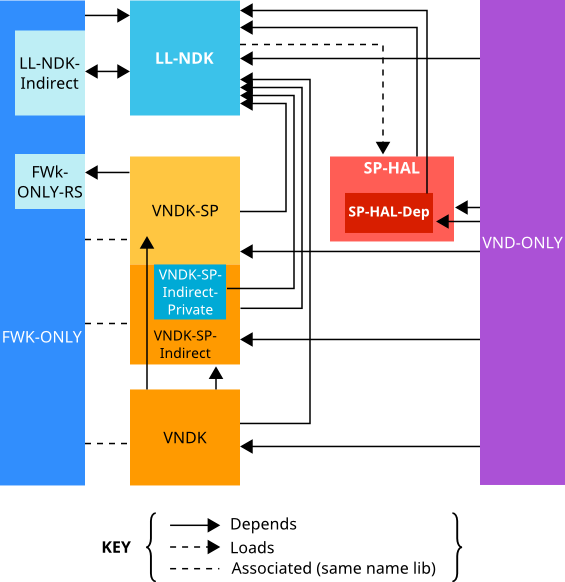
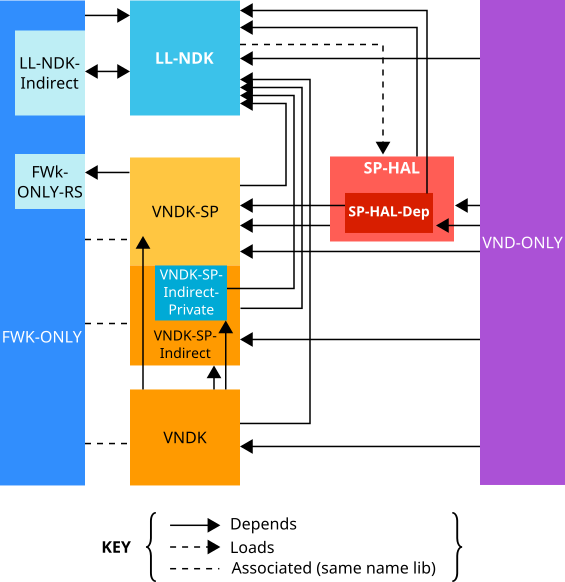
Docs: Changes to source.android.com
- 189676745 Add missing arrows in treble_vndk_design.png. by Android Partner Docs <noreply@android.com>
  - 189627338 Change Google Inc. to Google LLC by Danielle Roberts <daroberts@google.com>
  - 189618579 Add "updated" to date at top of file by Danielle Roberts <daroberts@google.com>
  - 189605698 Devsite localized content from translation request 288cfb... by Android Partner Docs <noreply@android.com>
  - 189605686 Devsite localized content from translation request 9e3d8a... by Android Partner Docs <noreply@android.com>
  - 189604258 Point the "Year in Review" link to the latest available r... by Android Partner Docs <noreply@android.com>

PiperOrigin-RevId: 189676745

diff --git a/zh-cn/compatibility/cts/setup.html b/zh-cn/compatibility/cts/setup.html
@@ -115,7 +115,7 @@ ro.product.first_api_level=21
 
 <h3 id="storage_requirements">存储空间要求</h3>
 <p>CTS 媒体压力测试要求将视频剪辑存放在外部存储设备 (<code>/sdcard</code>) 上。大部分剪辑来自 <a href="https://peach.blender.org/">Big Buck Bunny</a>，其版权归 Blender Foundation 所有并采用 <a href="http://creativecommons.org/licenses/by/3.0/">Creative Commons Attribution 3.0 许可</a>。</p>
-<p>所需空间取决于设备支持的最高视频播放分辨率（要查看所需分辨率的平台版本，请参阅兼容性定义文档中的第 5 部分）。请注意，被测设备的视频播放功能将通过 <code>android.media.CamcorderProfile</code> API（针对早期 Android 版本）和 <code>android.media.MediaCodecInfo.CodecCapabilities</code> API（针对 Android 5.0 及更高版本）进行检测。</p>
+<p>所需空间取决于设备支持的最高视频播放分辨率（要查看所需分辨率的平台版本，请参阅兼容性定义文档中的第 5 部分）。请注意，被测设备的视频播放功能将通过 <code>android.media.CamcorderProfile</code> API（针对早期 Android 版本）和 <code>android.media.MediaCodecInfo.CodecCapabilities</code> API（针对 Android 5.0）进行检测。</p>
 <p>以下是按最大视频播放分辨率列出的存储空间要求：</p>
 <ul>
   <li>480x360：98 MB</li><li>720x480：193 MB</li><li>1280x720：606 MB</li><li>1920x1080：1863 MB</li></ul>
@@ -140,7 +140,7 @@ ro.product.first_api_level=21
     <p class="warning"><strong>警告：</strong>这将清空设备中的所有用户数据。</p>
   </li><li>将设备的语言设置为英语（<strong>美国</strong>）：<strong>设置 &gt; 语言和输入法 &gt; 语言</strong>
   </li><li>如果设备具有 GPS 或 WLAN/移动网络功能，则打开位置信息设置：<strong>设置 &gt; 位置信息 &gt; 开启</strong>
-  </li><li><em></em>连接到满足以下要求的 WLAN 网络：支持 IPv6，可以将被测设备 (DUT) 视为隔离的客户端（请参阅上文的<a href="#physical_environment">物理环境</a>部分），并可以连接到互联网：<strong>设置 &gt; WLAN</strong>
+  </li><li>连接到满足以下要求的 WLAN 网络：支持 IPv6，可以将被测设备 (DUT) 视为隔离的客户端（请参阅上文的<a href="#physical_environment">物理环境</a>部分），并可以连接到互联网：<strong>设置 &gt; WLAN</strong><em></em>
   </li><li>确保设备上未设置锁定图案或密码：<strong>设置 &gt; 安全 &gt; 屏幕锁定 &gt; 无</strong>
   </li><li>在设备上启用 <strong>USB 调试</strong>：<strong>设置 &gt; 开发者选项 &gt; USB 调试</strong>。
        <p class="note"><strong>注意：</strong>在 Android 4.2 及更高版本中，默认情况下会隐藏<strong>开发者选项</strong>。要显示这些选项，请依次转到<strong>设置 &gt; 关于手机</strong>，然后点按<strong>版本号</strong>七次。返回上一屏幕以查找<strong>开发者选项</strong>。要查看其他详细信息，请参阅<a href="http://developer.android.com/studio/run/device.html#developer-device-options">启用设备上的开发者选项</a>。</p>

diff --git a/zh-cn/compatibility/cts/development.html b/zh-cn/compatibility/cts/development.html
@@ -27,7 +27,8 @@ init</code> 命令时，请按照<a href="/setup/downloading.html">相关说明<
 <h2 id="building-and-running-cts">构建和运行 CTS</h2>
 
 <p>执行以下命令以构建 CTS 并启动交互式 CTS 控制台：</p>
-<p class="note"><strong>注意</strong>：您可以为 <code>TARGET_PRODUCT</code> 提供以下其他值之一，以针对不同的架构进行编译：<code>aosp_x86_64</code> 或 <code>aosp_mips</code></p>
+<p class="note"><strong>注意</strong>：您可以为 <code>TARGET_PRODUCT</code> 提供以下其他值之一，以针对不同的架构进行编译：
+<code>aosp_x86_64</code> 或 <code>aosp_mips</code></p>
 <pre class="devsite-click-to-copy">
 <code class="devsite-terminal">cd <em>/path/to/android/root</em></code>
 <code class="devsite-terminal">make cts -j32 TARGET_PRODUCT=aosp_arm64</code>
@@ -189,6 +190,11 @@ include $(call all-makefiles-under,$(LOCAL_PATH))
 </thead>
 <tbody>
 <tr>
+  <td>8.1</td>
+    <td>oreo-mr1-cts-dev</td>
+      <td>每月</td>
+      </tr>
+<tr>
   <td>8.0</td>
     <td>oreo-cts-dev</td>
       <td>每月</td>
@@ -214,24 +220,7 @@ include $(call all-makefiles-under,$(LOCAL_PATH))
   <td>每月</td>
 </tr>
 <tr>
-  <td>5.0</td>
-  <td>lollipop-cts-dev</td>
-  <td>无版本发布计划</td>
-</tr>
-<tr>
-  <td>4.4</td>
-  <td>kitkat-cts-dev</td>
-  <td>无版本发布计划</td>
-</tr>
-<tr>
-  <td>4.3</td>
-  <td>jb-mr2-cts-dev</td>
-  <td>无版本发布计划</td>
-</tr>
-<tr>
-  <td>4.2</td>
-  <td>jb-mr1.1-cts-dev</td>
-  <td>无版本发布计划</td>
+  <td colspan="3">对于 5.0、4.4、4.3 和 4.2，无发布计划。</td>
 </tr>
 </tbody></table>
 
@@ -246,10 +235,11 @@ include $(call all-makefiles-under,$(LOCAL_PATH))
 <h3 id="auto-merge">自动合并流程</h3>
 
 <p>CTS 开发分支已设置，因此提交到每个分支的更改将自动合并，如下所示：<br />
-jb-dev-&gt; jb-mr1.1-cts-dev -&gt; jb-mr2-cts-dev  -&gt; kitkat-cts-dev -&gt;
-lollipop-cts-dev -&gt; lollipop-mr1-cts-dev -&gt; marshmallow-cts-dev -&gt;
-nougat-cts-dev -&gt; nougat-mr1-cts-dev -&gt; oreo-cts-dev -&gt; &lt;private-development-branch for Android O MR1&gt;</p>
+lollipop-mr1-cts-dev -&gt; marshmallow-cts-dev -&gt;
+nougat-cts-dev -&gt; nougat-mr1-cts-dev -&gt; oreo-cts-dev -&gt; oreo-mr1-cts-dev -&gt; &lt;private-development-branch for Android P&gt;</p>
 
 <p>如果变更列表 (CL) 未能正确合并，CL 的作者将收到一封电子邮件，其中包含有关如何解决冲突的说明。在大多数情况下，CL 作者可以通过这些说明来跳过存在冲突的 CL 的自动合并流程。</p>
+
+<p>此外，如果较旧的分支需要更改，则需要从较新的分支挑选 CL。</p>
 
 </body></html>

diff --git a/zh-cn/setup/brands.html b/zh-cn/setup/brands.html
@@ -20,7 +20,7 @@
       limitations under the License.
   -->
 
-<p>“Android”名称、<img src="/setup/assets/images/sac_logo.png" alt="Android" style="margin:0;padding:0 2px;vertical-align:baseline"/> 徽标、“Google Play”品牌以及其他商标均为 Google Inc. 的资产，不属于通过 Android 开源项目提供的资源的一部分。</p>
+<p>“Android”名称、<img src="/setup/assets/images/sac_logo.png" alt="Android" style="margin:0;padding:0 2px;vertical-align:baseline"/> 徽标、“Google Play”品牌以及其他商标均为 Google LLC 的资产，不属于通过 Android 开源项目提供的资源的一部分。</p>
 
 <p>如果您希望使用这些品牌，以表明它们与您的设备之间存在关联，请遵循本页中的准则。这些准则与 <a href="https://developer.android.com/distribute/tools/promote/brand.html">Android 应用开发者品牌指南</a>和 <a href="https://www.google.com/permissions/">Google 品牌权限</a>是相辅相成的关系。</p>
 
@@ -48,7 +48,7 @@
     <li><span style="color:green">正确</span>：“Android 移动设备”</li>
   </ul>
   <p><strong>无论在任何情况下使用 Android 名称，都必须在您的资料中包含以下归属信息</strong>：</p>
-  <blockquote><em>Android 是 Google Inc. 的商标。</em></blockquote><p></p>
+  <blockquote><em>Android 是 Google LLC 的商标。</em></blockquote><p></p>
   </li>
 </ul>
 

diff --git a/zh-cn/legal.html b/zh-cn/legal.html
@@ -24,13 +24,13 @@
 
   <div class="landing-banner">
 
-    <p>Android 由 Google Inc. 和<a href="http://www.openhandsetalliance.com/">开放手机联盟</a> (Open Handset Alliance) 联合开发。为了履行打造开放、自由和创新的移动环境的承诺，我们将其作为开发平台提供给您。</p>
+    <p>Android 由 Google LLC 和<a href="http://www.openhandsetalliance.com/">开放手机联盟</a> (Open Handset Alliance) 联合开发。为了履行打造开放、自由和创新的移动环境的承诺，我们将其作为开发平台提供给您。</p>
 
   </div>
 
 <h2 id="Brands">Android 品牌</h2>
 
-<p>“Android”名称、<img src="/setup/assets/images/sac_logo.png" alt="Android" style="margin:0;padding:0 2px;vertical-align:baseline"/> 徽标和<a href="http://www.google.com/permissions/">其他商标</a>均为 Google Inc. 的财产。</p>
+<p>“Android”名称、<img src="/setup/assets/images/sac_logo.png" alt="Android" style="margin:0;padding:0 2px;vertical-align:baseline"/> 徽标和<a href="http://www.google.com/permissions/">其他商标</a>均为 Google LLC 的财产。</p>
 
 <p>要了解更多详情，请参阅<a href="/setup/brands.html">品牌推广指南</a>。</p>
 

diff --git a/en/legal.html b/en/legal.html
@@ -27,7 +27,7 @@
 
   <div class="landing-banner">
 
-    <p>Android is developed by Google Inc. and the <a
+    <p>Android is developed by Google LLC and the <a
     href="http://www.openhandsetalliance.com/">Open Handset Alliance</a>. We've made it available to you
     as a development platform pursuant to our commitment to openness, freedom, and innovation in
     mobile.</p>
@@ -38,7 +38,7 @@
 
 <p>The "Android" name, the <img src="/setup/assets/images/sac_logo.png" alt="Android"
 style="margin:0;padding:0 2px;vertical-align:baseline" /> logo, and
-<a href="http://www.google.com/permissions/">other trademarks</a> are property of Google Inc.</p>
+<a href="http://www.google.com/permissions/">other trademarks</a> are property of Google LLC.</p>
 
 <p>See the <a href="/setup/brands.html">Brand Guidelines</a> for additional details.</p>
 

diff --git a/en/setup/brands.html b/en/setup/brands.html
@@ -25,7 +25,7 @@
 
 <p>The "Android" name, the <img src="/setup/assets/images/sac_logo.png"
 alt="Android" style="margin:0;padding:0 2px;vertical-align:baseline" /> logo,
-the "Google Play" brand, and other trademarks are property of Google Inc. and
+the "Google Play" brand, and other trademarks are property of Google LLC and
 not part of the assets available through the Android Open Source Project.</p>
 
 <p>If you are interested in using these brands to indicate their association
@@ -74,7 +74,7 @@ assets.</p>
   </ul>
   <p><strong>Any use of the Android name must include this attribution in your
   communication</strong>:</p>
-  <blockquote><em>Android is a trademark of Google Inc.</em></blockquote></p>
+  <blockquote><em>Android is a trademark of Google LLC.</em></blockquote></p>
   </li>
 </ul>
 

diff --git a/en/security/index.html b/en/security/index.html
@@ -158,7 +158,7 @@ Android devices with <a href="https://www.android.com/gms/">Google Mobile
 Services</a>. While these services are not part of the Android Open Source
 Project, they are included on many Android devices. For more information on
 some of these services, see Android Security’s
-<a href="/security/reports/Google_Android_Security_2016_Report_Final.pdf">2016
+<a href="/security/reports/Google_Android_Security_2017_Report_Final.pdf">2017
 Year in Review</a>.
 </p>
 <p>

diff --git a/en/compatibility/source/android-cdd-cover.html b/en/compatibility/source/android-cdd-cover.html
@@ -26,7 +26,7 @@ style="border-top: 5px solid orange; border-bottom: 5px solid orange"/>
 <td>
 <p class="subtitle">Android 8.0</p>
 <p class="cover-text">Last updated: September 1, 2017</p>
-<p class="cover-text">Copyright &copy; 2017, Google Inc. All rights reserved.</p>
+<p class="cover-text">Copyright &copy; 2018, Google LLC All rights reserved.</p>
 <p class="cover-text"><a href="mailto:compatibility@android.com">compatibility@android.com</a></p>
 </td>
 </tr>

diff --git a/en/security/bulletin/2018-02-01.html b/en/security/bulletin/2018-02-01.html
@@ -20,7 +20,7 @@
       See the License for the specific language governing permissions and
       limitations under the License.
   -->
-  <p><em>Published February 5, 2018 | February 14, 2018</em></p>
+  <p><em>Published February 5, 2018 | Updated February 14, 2018</em></p>
 
 
 <p>
